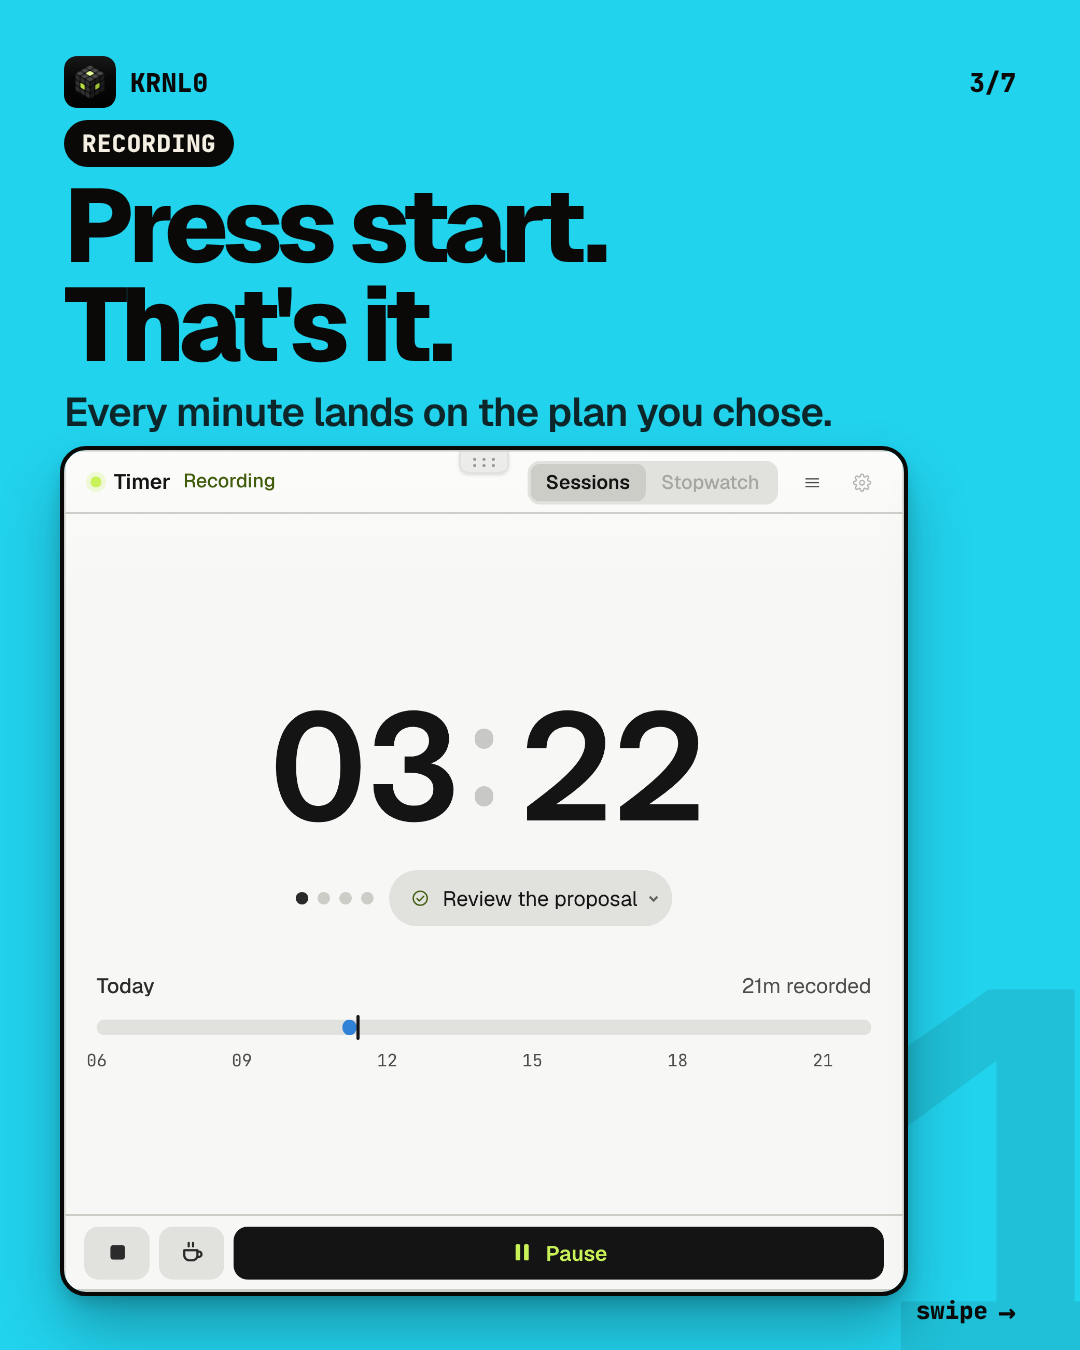
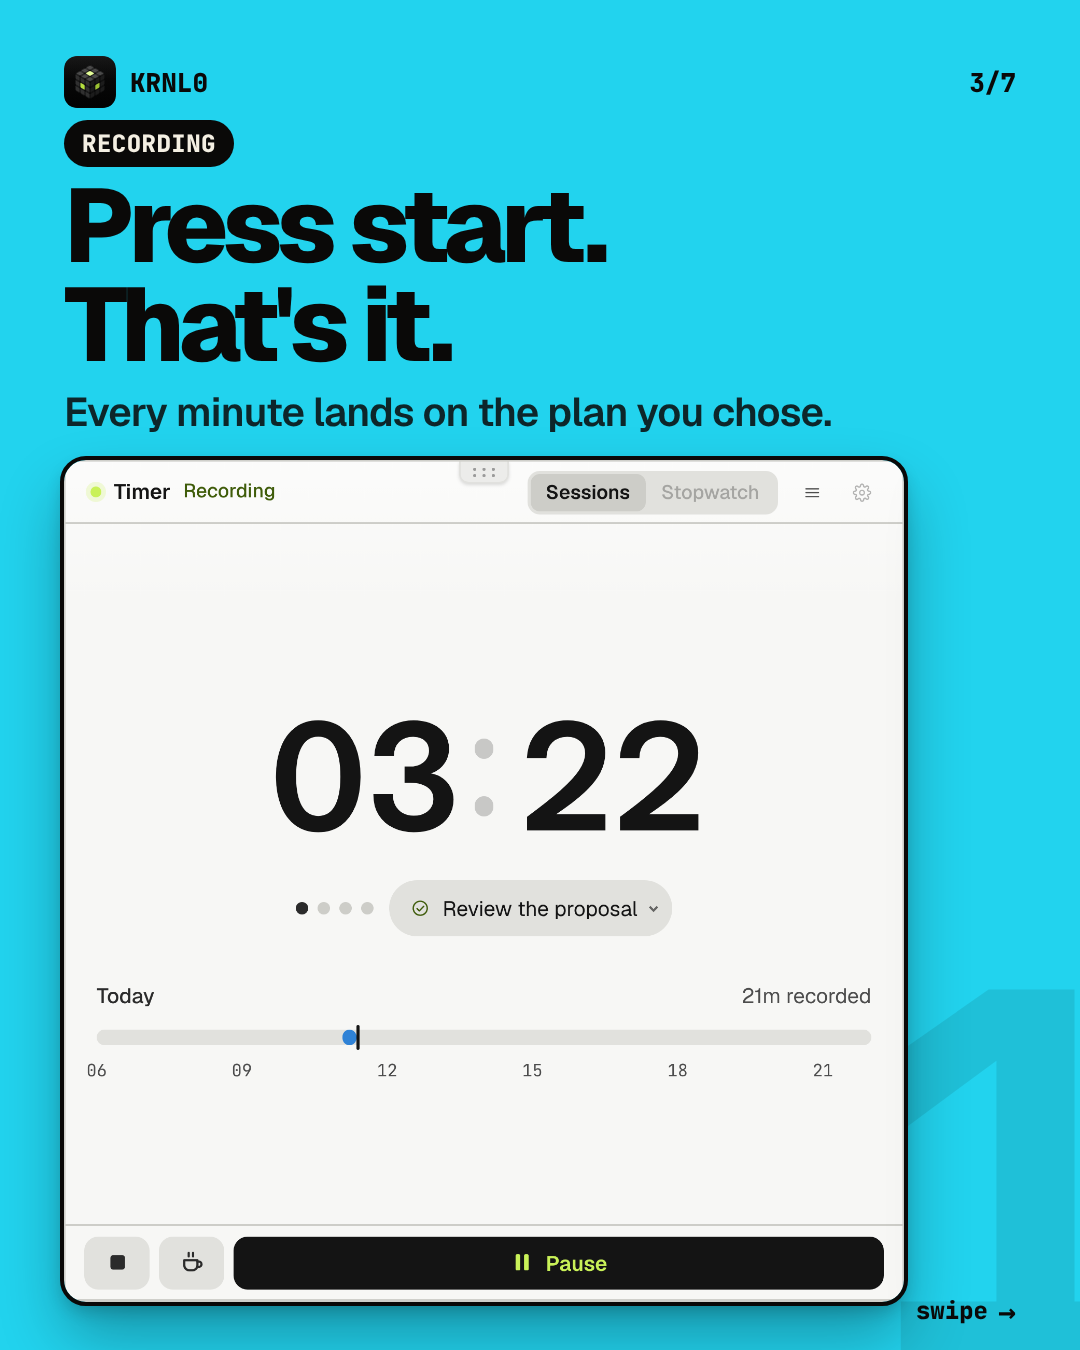
wip(marketing): carousel posts being retaken in light theme (02, 04, 08, 10, 11 done)

diff --git a/marketing/posts/03-press-start/slides.html b/marketing/posts/03-press-start/slides.html
@@ -42,9 +42,9 @@
   <div class="chip tag">11:02 · TUESDAY</div>
   <div class="headline" style="top:176px; font-size:104px;">It already knows<br>what's on.</div>
   <div class="sub" style="top:388px;">Your 11:00 plan is waiting. One tap starts it.</div>
-  <div class="win" style="top:450px; width:840px;"><img src="assets/timer-idle.png" alt="Timer window offering Review the proposal, planned now"></div>
+  <div class="win" style="top:460px; width:840px;"><img src="assets/timer-idle.png" alt="Timer window offering Review the proposal, planned now"></div>
   <!-- ring on the real pill (x .285-.835, y .505-.56 of the window) -->
-  <div class="ring" style="left:293px; top:868px; width:480px; height:62px;"></div>
+  <div class="ring" style="left:298px; top:876px; width:470px; height:68px;"></div>
   <div class="swipe">swipe <span class="arr">→</span></div>
 </section>
 
@@ -55,7 +55,7 @@
   <div class="chip tag">RECORDING</div>
   <div class="headline" style="top:176px; font-size:104px;">Press start.<br>That's it.</div>
   <div class="sub" style="top:388px;">Every minute lands on the plan you chose.</div>
-  <div class="win" style="top:450px; width:840px;"><img src="assets/timer-late.png" alt="Timer window recording"></div>
+  <div class="win" style="top:460px; width:840px;"><img src="assets/timer-late.png" alt="Timer window recording"></div>
   <div class="swipe">swipe <span class="arr">→</span></div>
 </section>
 
@@ -69,7 +69,7 @@
   <div class="win" style="top:456px; width:700px;"><img src="assets/card-run.png" alt="Task card: 9m of 1h"></div>
   <div class="call" style="left:800px; top:600px;">9 min in</div>
   <div class="vline" style="left:402px; top:846px; height:60px;"></div>
-  <div class="call" style="left:440px; top:850px;">+ 13 min later</div>
+  <div class="call" style="left:440px; top:842px;">+ 13 min later</div>
   <div class="win" style="top:906px; width:700px;"><img src="assets/card-late.png" alt="Task card: 22m of 1h"></div>
   <div class="call" style="left:800px; top:1050px;">22 min in</div>
   <div class="swipe">swipe <span class="arr">→</span></div>
@@ -86,7 +86,7 @@
   <div class="legend" style="left:420px;"><div class="num">2</div>What you planned</div>
   <div class="win" id="cal" style="left:220px; top:526px; width:640px;"><img src="assets/cal-tracked.png" alt="Calendar day with the plan block and the recorded time bar"></div>
   <!-- markers sit on the real elements: bar (x~.10, y~.369 of the window) and the block's right end -->
-  <div class="num" style="left:262px; top:714px;">1</div>
+  <div class="num" style="left:310px; top:742px;">1</div>
   <div class="num" style="left:812px; top:738px;">2</div>
   <div class="swipe">swipe <span class="arr">→</span></div>
 </section>
@@ -98,7 +98,7 @@
   <div class="chip tag">STOPWATCH MODE</div>
   <div class="headline" style="top:176px; font-size:100px;">Not a 25-minute<br><em>kind of person?</em></div>
   <div class="sub" style="top:384px;">Count up. Then say what it was.</div>
-  <div class="win" style="top:450px; width:840px;"><img src="assets/sw-run.png" alt="Timer in stopwatch mode at 36:21"></div>
+  <div class="win" style="top:460px; width:840px;"><img src="assets/sw-run.png" alt="Timer in stopwatch mode at 36:21"></div>
   <div class="swipe">swipe <span class="arr">→</span></div>
 </section>
 

diff --git a/marketing/posts/09-every-button-a-command/README.md b/marketing/posts/09-every-button-a-command/README.md
@@ -1,0 +1,9 @@
+# Post 09: Every button is a command (7 slides, 1080 x 1350)
+
+- `slide-1.png` … `slide-7.png`: final slides. `caption.md`: Instagram caption. `contact-sheet.png`, `phone-check.png`: review sheets.
+- `build.py` writes `slides/slide-N.html` (look: `../_shared/brand.css`); `render.cjs` screenshots them (Playwright).
+- `assets/`: real app footage. `capture/`: how it was filmed.
+  - `capture/run.test.ts` + `commands.json` run the real `krnl` command code (SysFacade) headlessly and record each command's output to `outputs.json`.
+  - `capture/capture.cjs` + `board.js` drive the browser preview (port 5201) in the LIGHT theme with a fake clock at 2026-11-24 10:30, and type the commands into the real Terminal window. The preview has no shell, so `board.js` is a stand-in that echoes typed text and prints the recorded real output (wrapped at the window width).
+  - The `krnl pomo start` / `krnl pomo status` lines cannot run headlessly (they need the app's main process); their text is the exact string format from `src/sys/commands/pomo.ts`.
+- Rebuild: `node capture/capture.cjs` (needs the preview), `python3 build.py && node render.cjs`.

diff --git a/marketing/posts/03-press-start/README.md b/marketing/posts/03-press-start/README.md
@@ -6,4 +6,4 @@ Topic: the Focus Timer. Pick the plan that is on, press start, it records onto t
 - Source: `slides.html` (uses `../_shared/brand.css`), `assets/` (trimmed real window shots)
 - Rebuild (preview server on :5201 must be running):
   `node scripts/capture.cjs && node scripts/capture-stopwatch.cjs && python3 scripts/trim.py && node scripts/render.cjs`
-- Footage: real renderer driven by Playwright with a fake clock (2026-11-24 11:02); the timer is fast-forwarded in 3-minute steps. Demo data is illustrative.
+- Footage: real renderer in the light theme (localStorage krnl0-theme=light) driven by Playwright with a fake clock (2026-11-24 11:02); the timer is fast-forwarded in 3-minute steps. Demo data is illustrative.

diff --git a/marketing/posts/09-every-button-a-command/caption.md b/marketing/posts/09-every-button-a-command/caption.md
@@ -1,0 +1,13 @@
+Every button in KRNL0 is also a command. ⌨
+
+KRNL0 has a real Terminal window on your canvas. Type
+`krnl todo add "Review the proposal 11:00 1h"` and it's on your Calendar at 11:00.
+`krnl habit done "Morning run"` keeps the streak. `krnl pomo start` starts the timer.
+
+Put a few of those lines in a file and your whole morning is one script. Claude Code runs right inside the Terminal window too, so it can use the same commands.
+
+Swipe for the commands →
+
+Free download · link in bio
+
+#krnl0 #productivityapp #developerproductivity #commandline #terminal #habittracker #pomodoro #timeblocking #infinitecanvas #deepwork #automation #workflow
